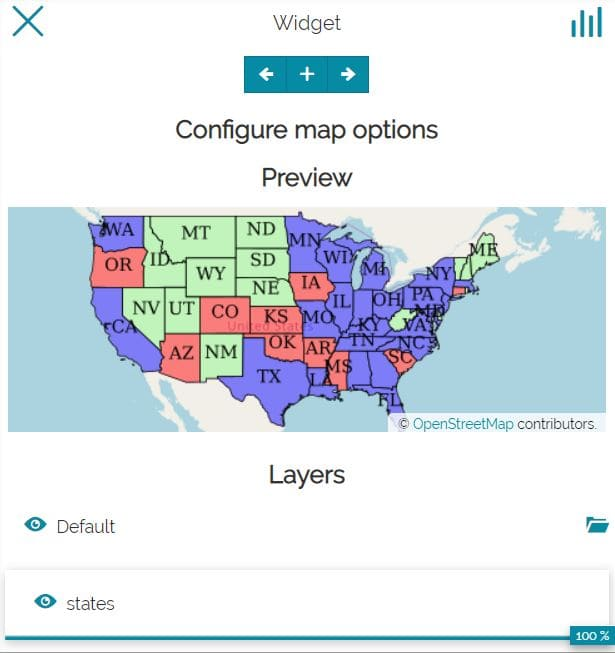
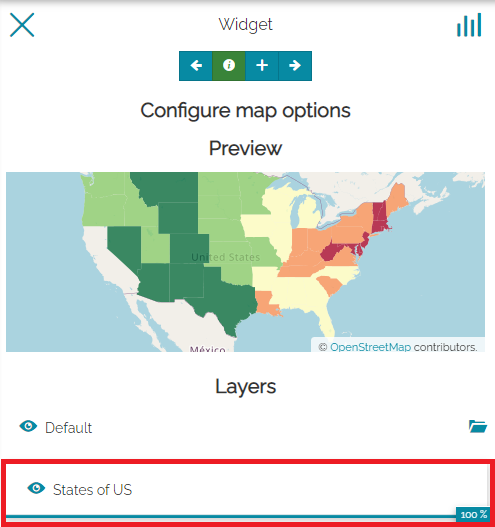
identify_map_widget

diff --git a/docs/user-guide/adding-widgets.md b/docs/user-guide/adding-widgets.md
@@ -33,36 +33,41 @@ In dashboards, selecting the Map type widget, the following panel appears:
 
 Here the user can:
 
-* Go back <img src="../img/button/back.jpg" class="ms-docbutton"/> to widget type selection
+* Go back to widget type selection through the <img src="../img/button/back.jpg" class="ms-docbutton"/> button 
 
 * Search for a map by writing its title
 
-* Select a map (mandatory in order to move forward)
+* Select a map from the list of maps (mandatory in order to move forward)
 
-* Move forward to the next step <img src="../img/button/next.jpg" class="ms-docbutton"/>
+* Move forward to the next step through the <img src="../img/button/next.jpg" class="ms-docbutton"/> button
 
-The next panel is similar to the following (in this case an empty map was selected):
-
-<img src="../img/adding-widgets/wid-map-options.jpg" class="ms-docimage"  style="max-width:400px;"/>
-
-Now the user is allowed to add layers to the map through the <img src="../img/button/+++.jpg" class="ms-docbutton"/> button:
-
-<img src="../img/adding-widgets/wid-add-layer.gif" class="ms-docimage"  style="max-width:400px;"/>
-
-Once a layer is added to the map widget, it will be displayed in preview and in layers list:
+Once a map has been selected, a panel opens and the layers present in the map are displayed in the preview and listed in the layer list:
 
 <img src="../img/adding-widgets/wid-layers-list.jpg" class="ms-docimage"  style="max-width:400px;"/>
 
-It's now possible to toggle the layer visibility, and set layers transparency (more information in [Display options](toc.md#display-options-in-panel) section). Furthermore, by selecting it, new buttons are added to the toolbar allowing to:
-
-* Zoom to layers <img src="../img/button/zoom-layer.jpg" class="ms-docbutton"/>
-
-* Access [Layer Settings](layer-settings.md) <img src="../img/button/properties.jpg" class="ms-docbutton"/>
-
-* Remove layers <img src="../img/button/delete.jpg" class="ms-docbutton"/>
-
 !!!note
-    Adding layers is not mandatory, it is possible to create a widget map using an empty map.
+    If the **Empty Map** is selected the user can:
+
+    * Create a widget map using an empty map
+
+    * Add layers to the map through the <img src="../img/button/+++.jpg" class="ms-docbutton"/> button, as follows: <img src="../img/adding-widgets/wid-add-layer.gif" class="ms-docimage"  style="max-width:400px;"/>
+
+On the **Configure map options** panel the user can toggle the layer visibility and set layers transparency, as explained in the [Display options](toc.md#display-options-in-panel) section. Furthermore the user can manage the layer with the new buttons present on the layer toolbar by selecting the layer on the layers list.
+
+<img src="../img/adding-widgets/wid-layers-new-buttons.jpg" class="ms-docimage"  style="max-width:400px;"/>
+
+Here, the user is allowed to:
+
+* **Zoom** to layers though the <img src="../img/button/zoom-layer.jpg" class="ms-docbutton"/> button
+
+* Access [Layer Settings](layer-settings.md) though the <img src="../img/button/properties.jpg" class="ms-docbutton"/> button
+
+* **Remove** layers though the <img src="../img/button/delete.jpg" class="ms-docbutton"/> button
+
+* Disable/Enable the [Floating Identify Tool](side-bar.md#floating-identify-tool) to retrieve information about layers on the map though the <img src="../img/button/identify_green_burron.jpg" class="ms-docbutton"/> button 
+
+!!!warning
+    The *Floating Identify* tool is active by default (the button is green)
 
 Once the <img src="../img/button/next.jpg" class="ms-docbutton"/> button is clicked, the last step of the process is displayed like the following:
 
